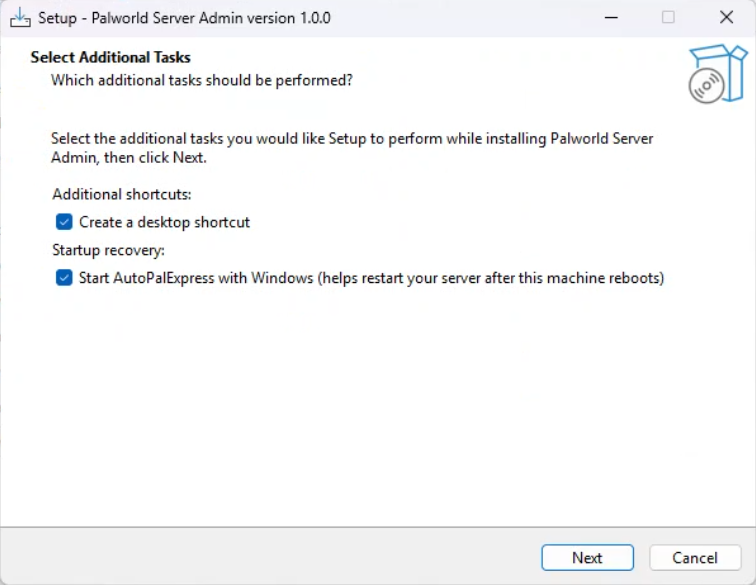
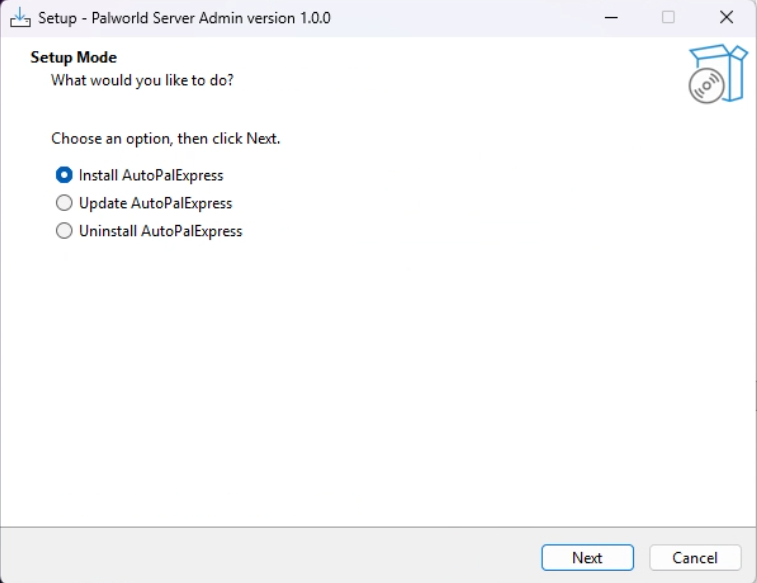
Update GETTING_STARTED.md with install location step and new screenshots
Adds the install-location screenshot to the installer step, drops the
separate "choose install folder" step it duplicated, and fills in several
previously-missing screenshot placeholders.

diff --git a/GETTING_STARTED.md b/GETTING_STARTED.md
@@ -35,6 +35,9 @@ If you want the server to come back after a PC restart, turn on the Windows star
 > [!NOTE]
 > Running the installer again later updates the app. It keeps your server list and admin account.
 
+Select Install Location
+![Installer startup option](images/getting-started-01-installer-location.png)
+
 ## 2. Make Your Admin Account
 
 The first account is the main admin account.
@@ -53,10 +56,6 @@ You have two choices:
 - **Import existing server** if you already have Palworld server files.
 
 ![Create or import server](images/getting-started-04-server-choice.png)
-
-If you create a new server, choose where it should be installed.
-
-![Choose install folder](images/getting-started-05-install-folder.png)
 
 > [!TIP]
 > You can put the server on another drive if your C drive is small.